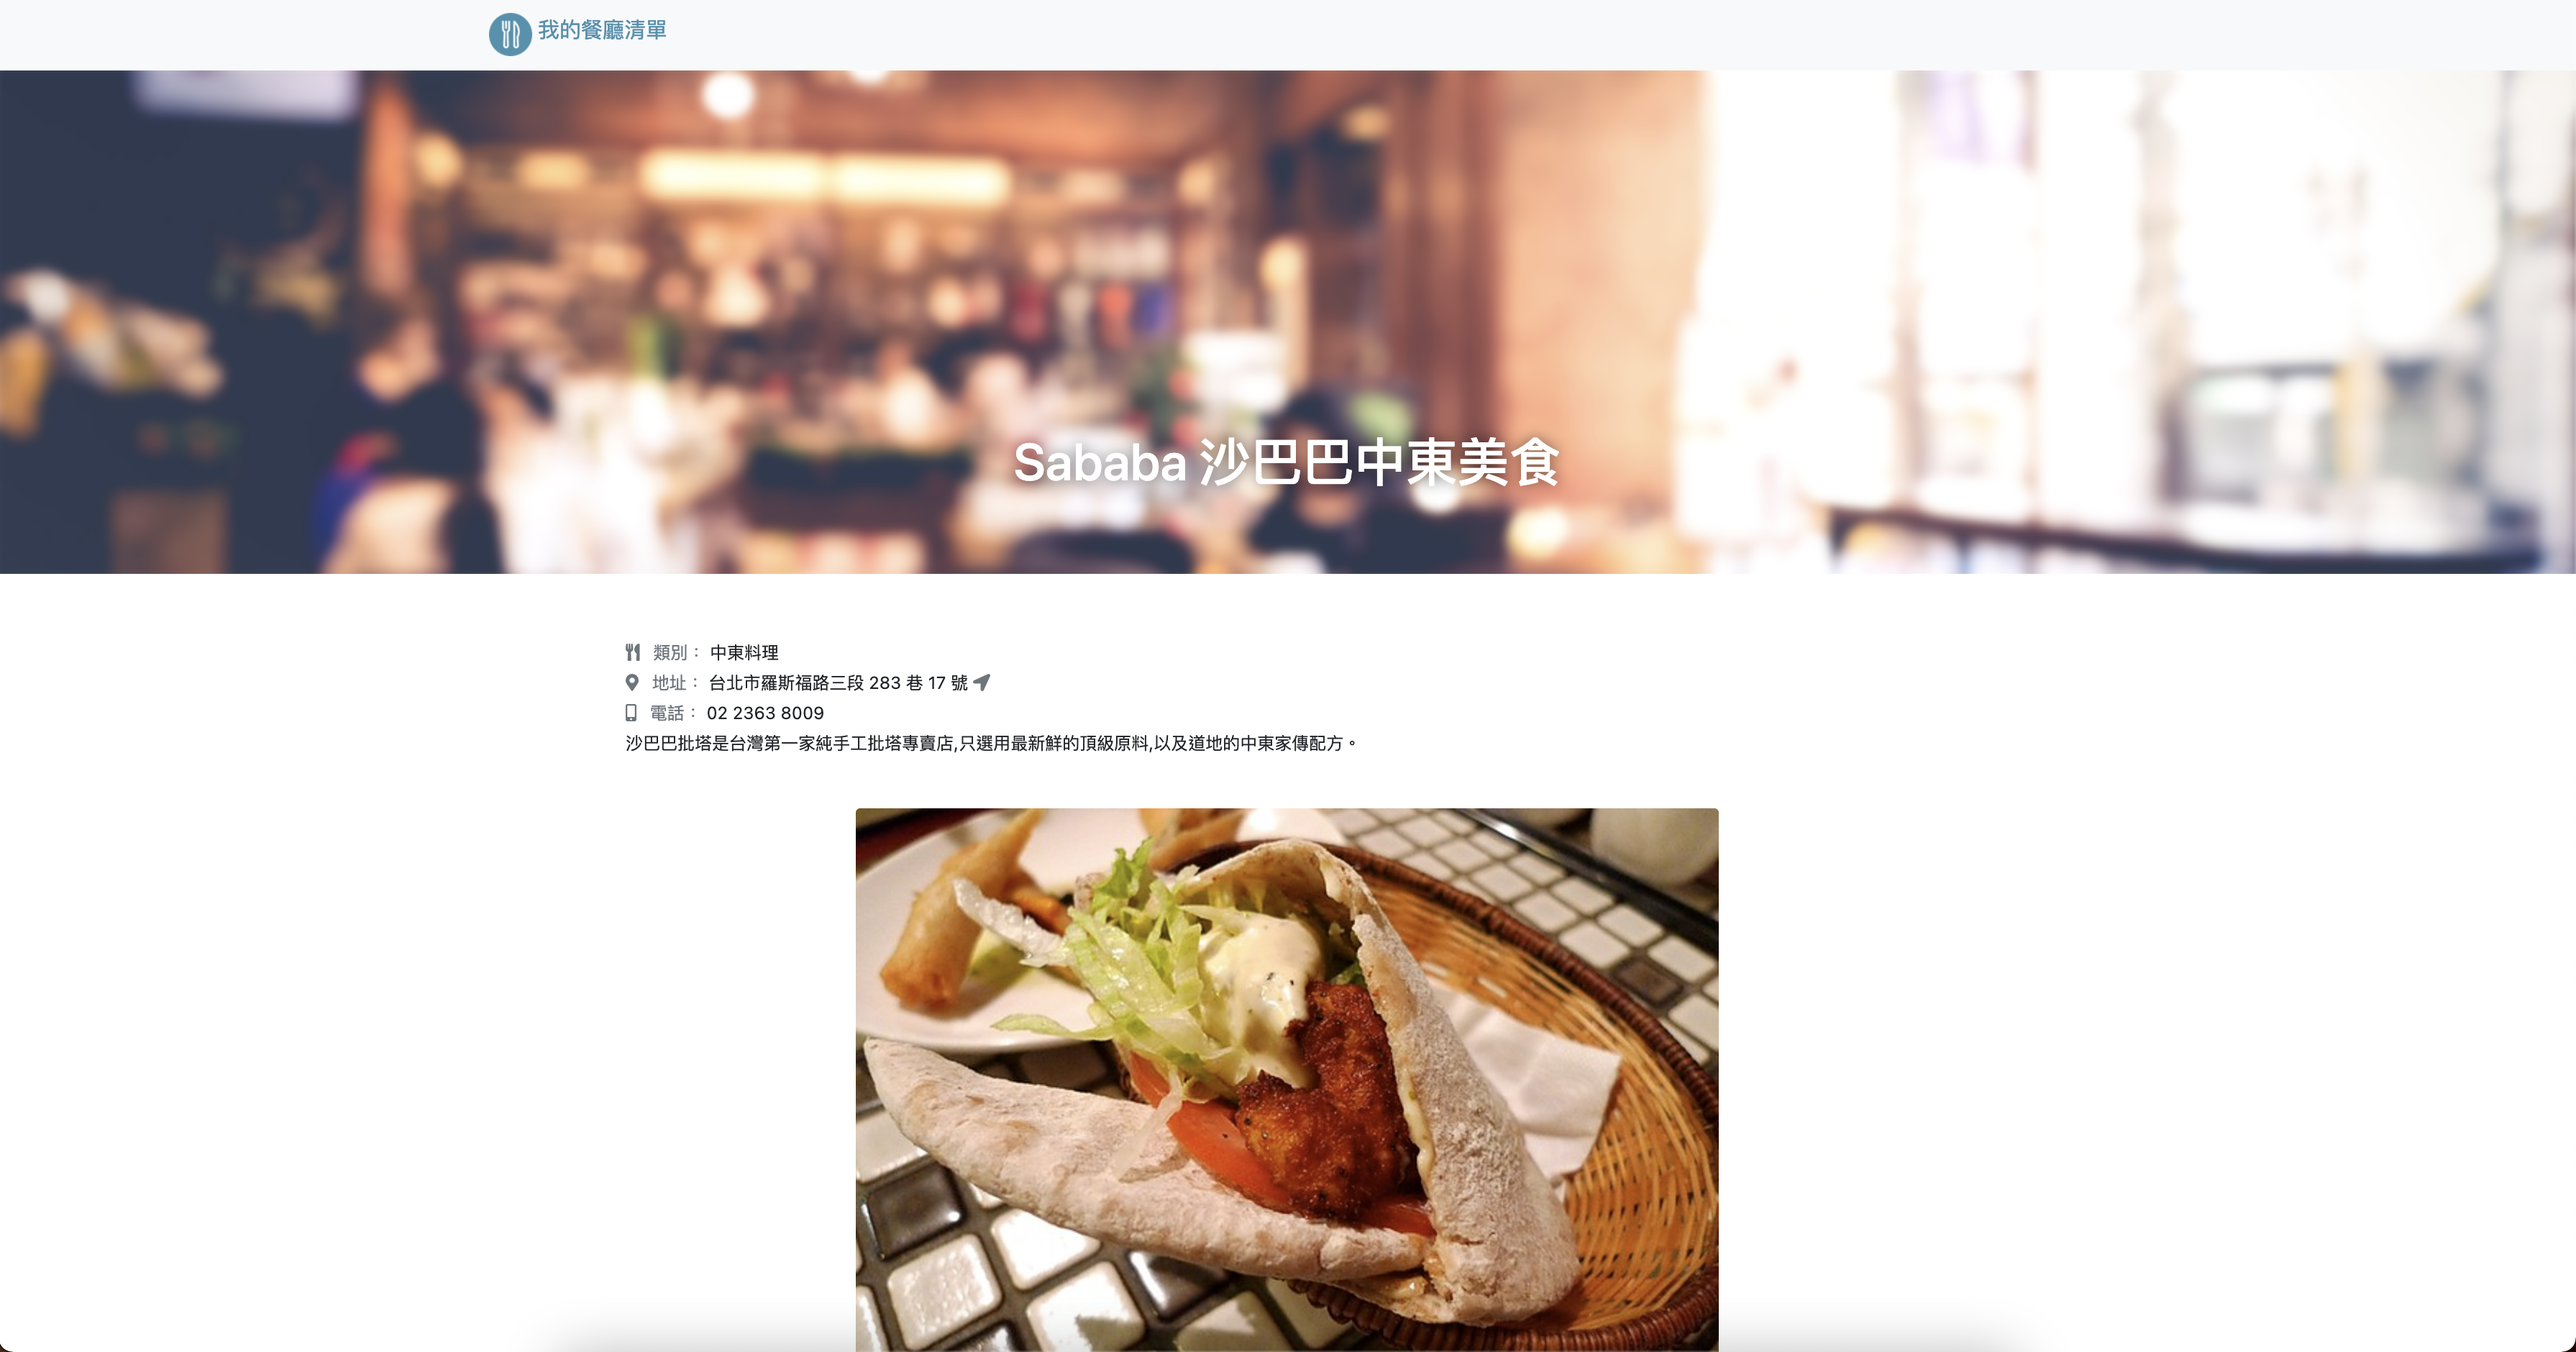
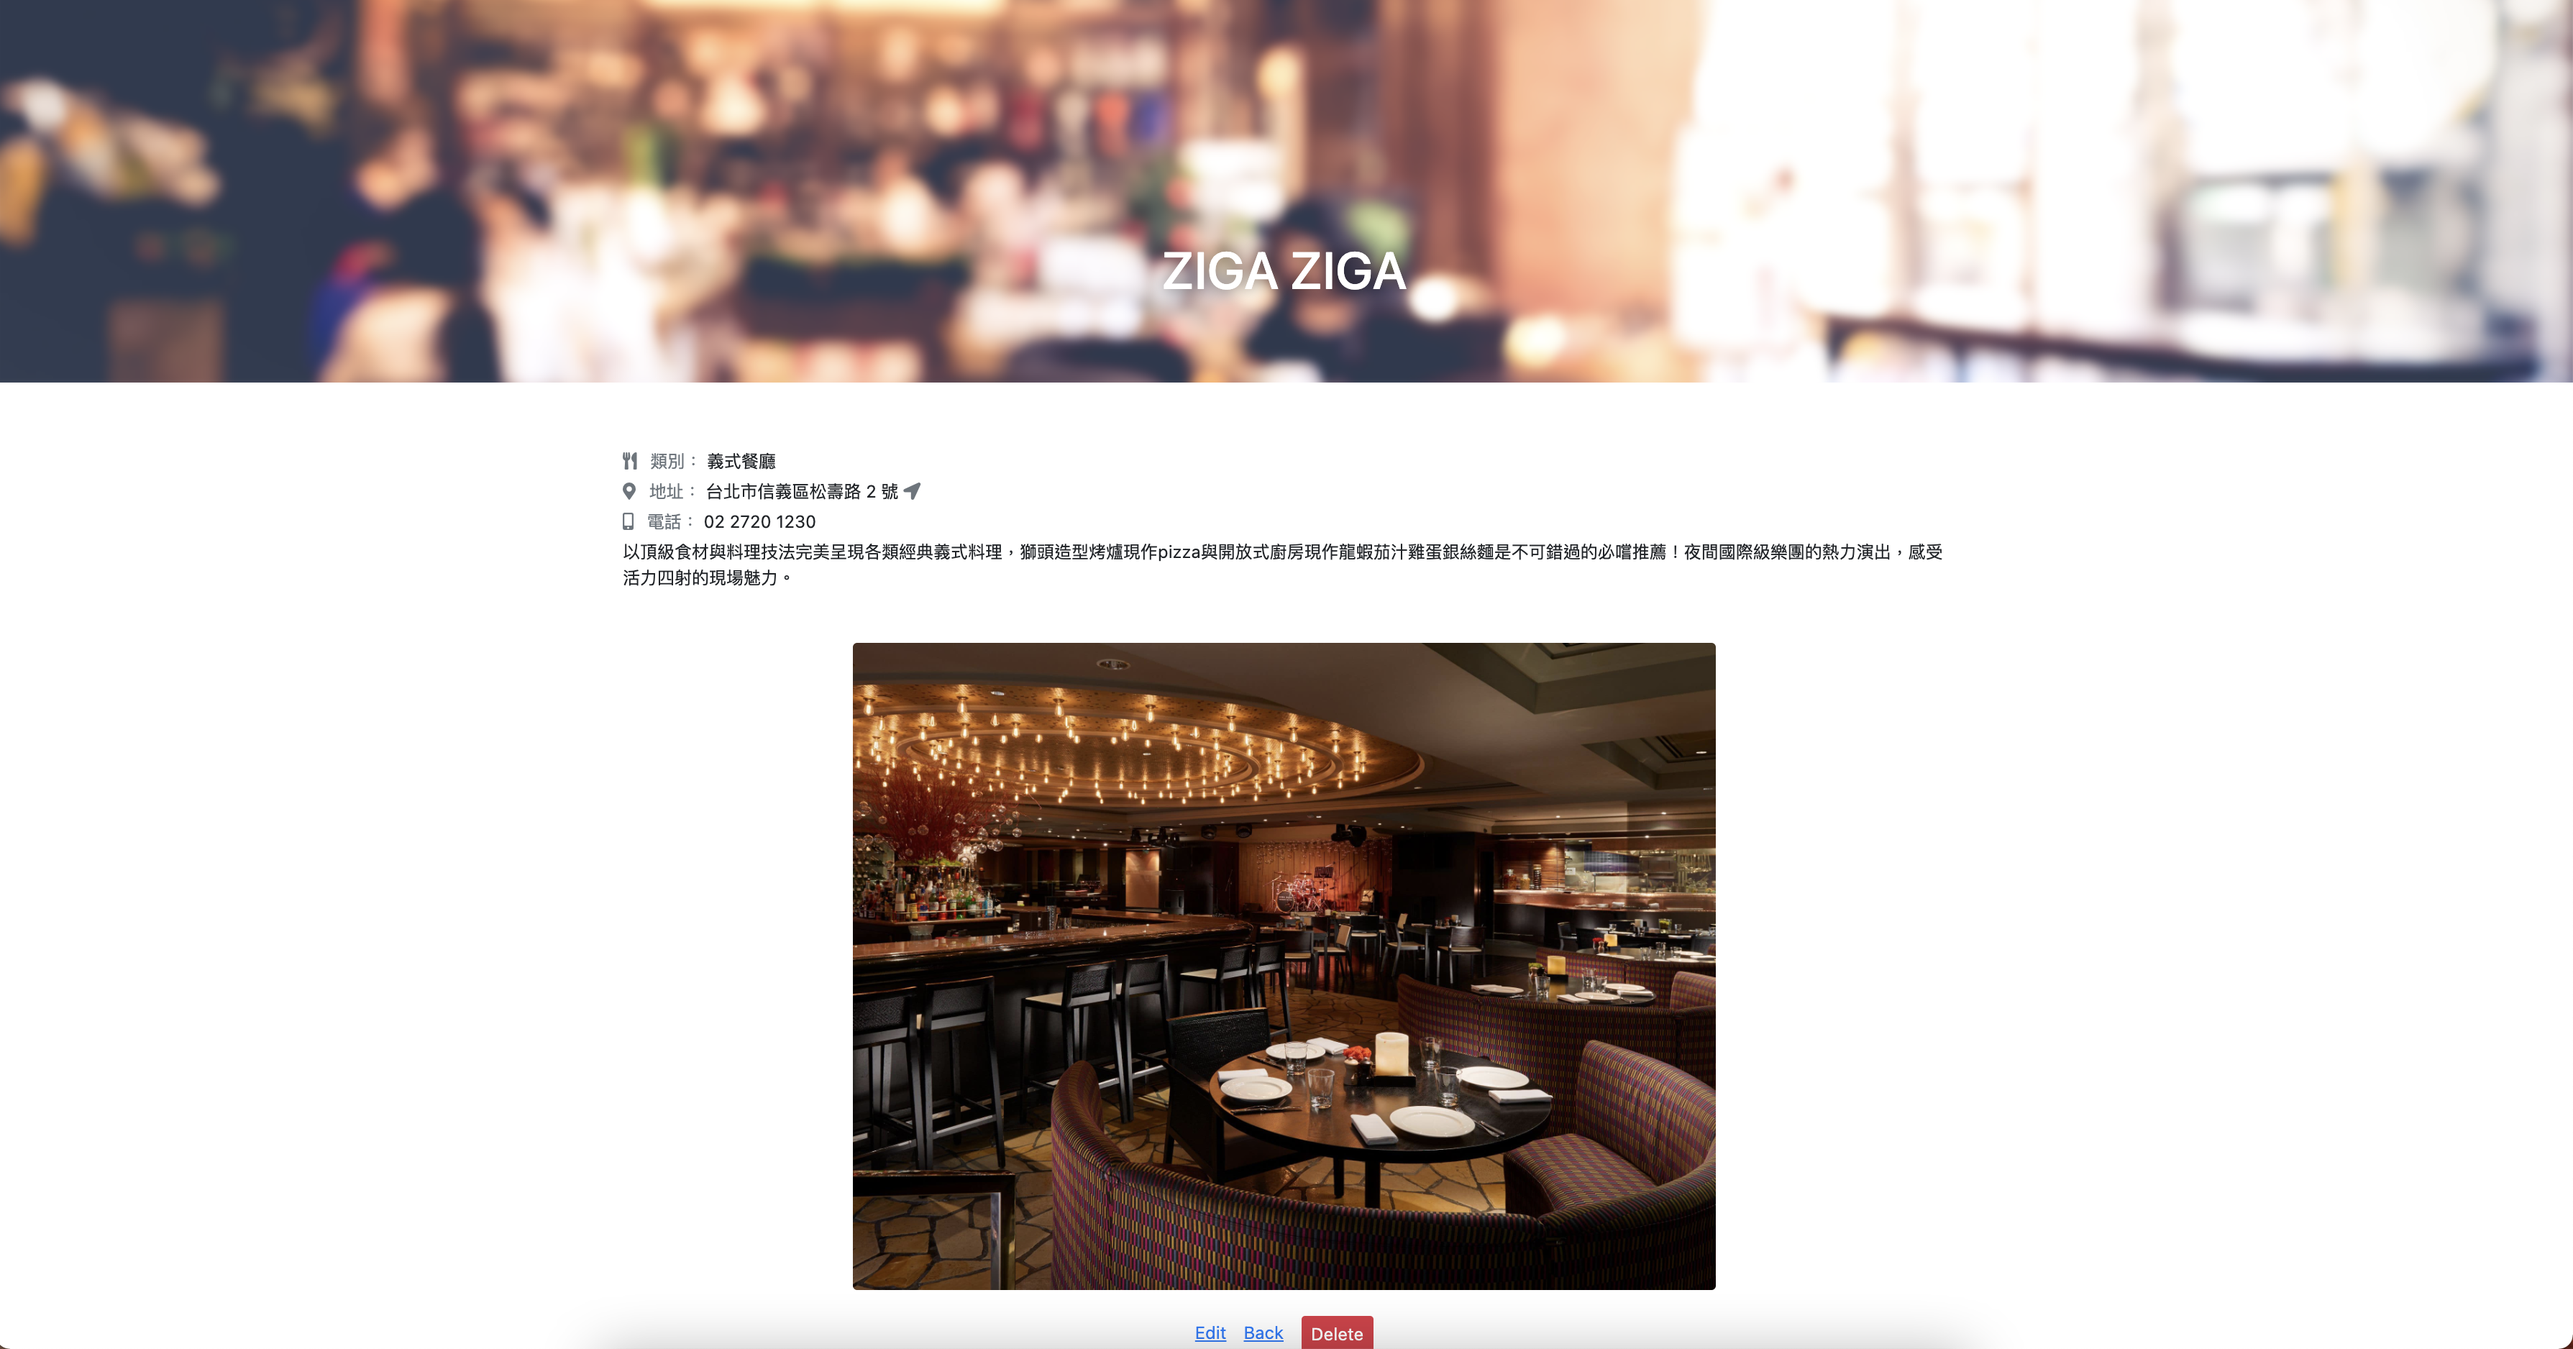
add README

diff --git a/README.md b/README.md
@@ -4,26 +4,20 @@
 ## 專案畫面
 ![image](/photo/專案畫面首頁.png)
 ![image](/photo/專案畫面詳細.png)
-
+![image](/photo/專案畫面編輯.png)
 ## Feature - 產品功能
 1. 使用者可以瀏覽所有餐廳
 2. 使用者可以點擊任一餐廳，查看更多餐廳資訊，如地址、電話與簡介
 3. 使用者可以依照中文名稱、英文名稱與餐廳類別進行搜尋
+4. 使用者可以新增一家餐廳
+5. 使用者可以編輯一家餐廳
+6. 使用者可以刪除一家餐廳
 
-## Installation - 專案安裝流程
-1. 打開你的 terminal，Clone 此專案至本機電腦 ```git clone https://github.com/Xuan1106/restaurant_list.git```
-2. 進入專案資料夾 ```cd restaurant_list```
-3. 安裝 npm 套件 ```npm install```
-4. 安裝 nodemon 套件 (若未安裝) ```npm install -g nodemon```
-5. 啟動伺服器，執行 app.js 檔案 ```nodemon app.js```
-6. 當終端機出現以下字樣，表示啟動完成 Express server is listening on localhost:3000
 
-### Prerequisites - 必要工具
+### Prerequisites - 使用工具
 - Visual Studio Code
 - Node.js
 - Express 4.17.1
 - express-handlebars 5.3.2
-- BootStrap v4.6
-- JQuery v3.6.0
-- popper.js
+- mongoose 5.13.2
 - restaurant.json
